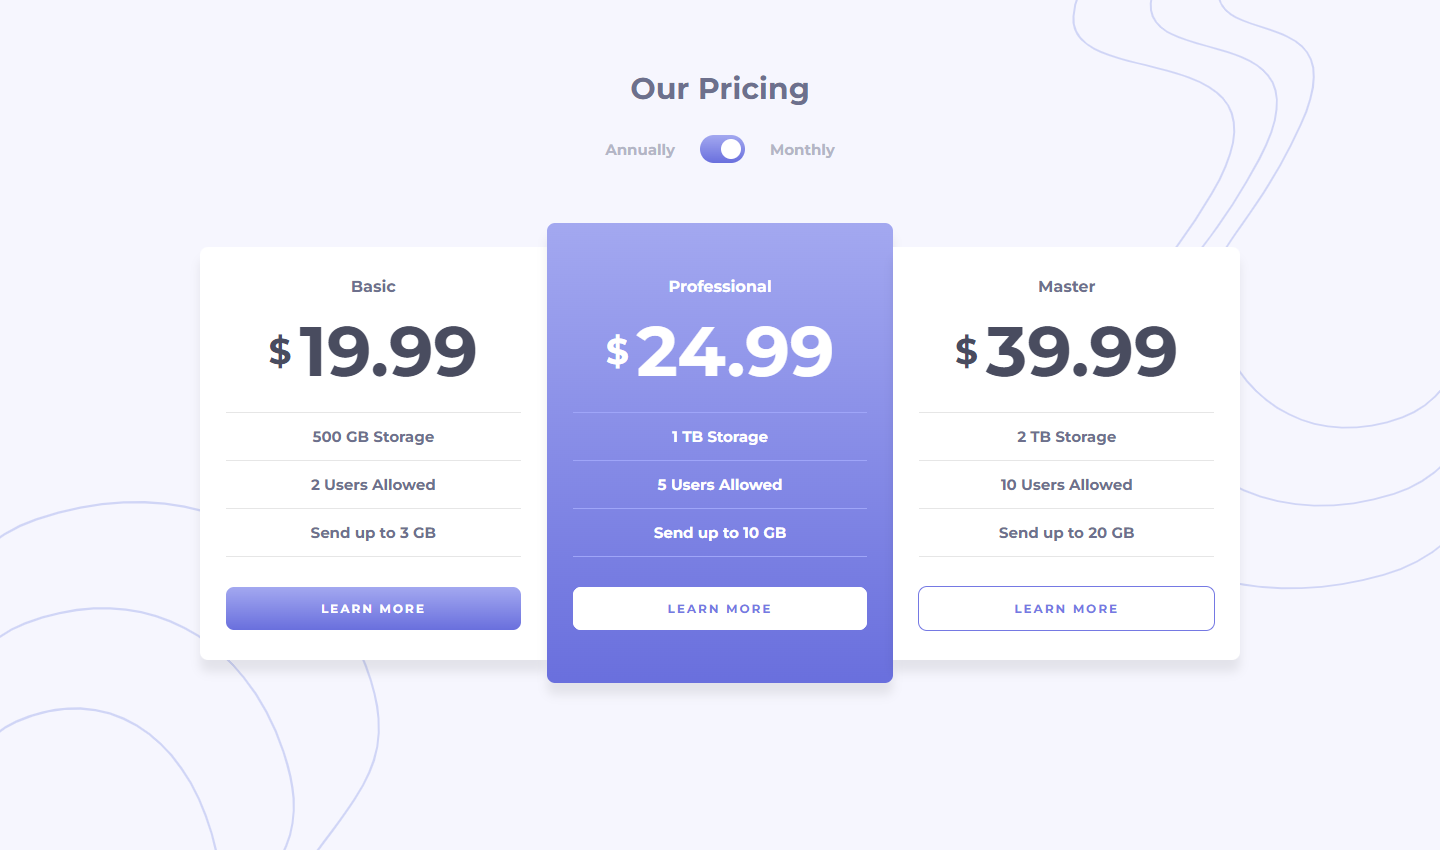
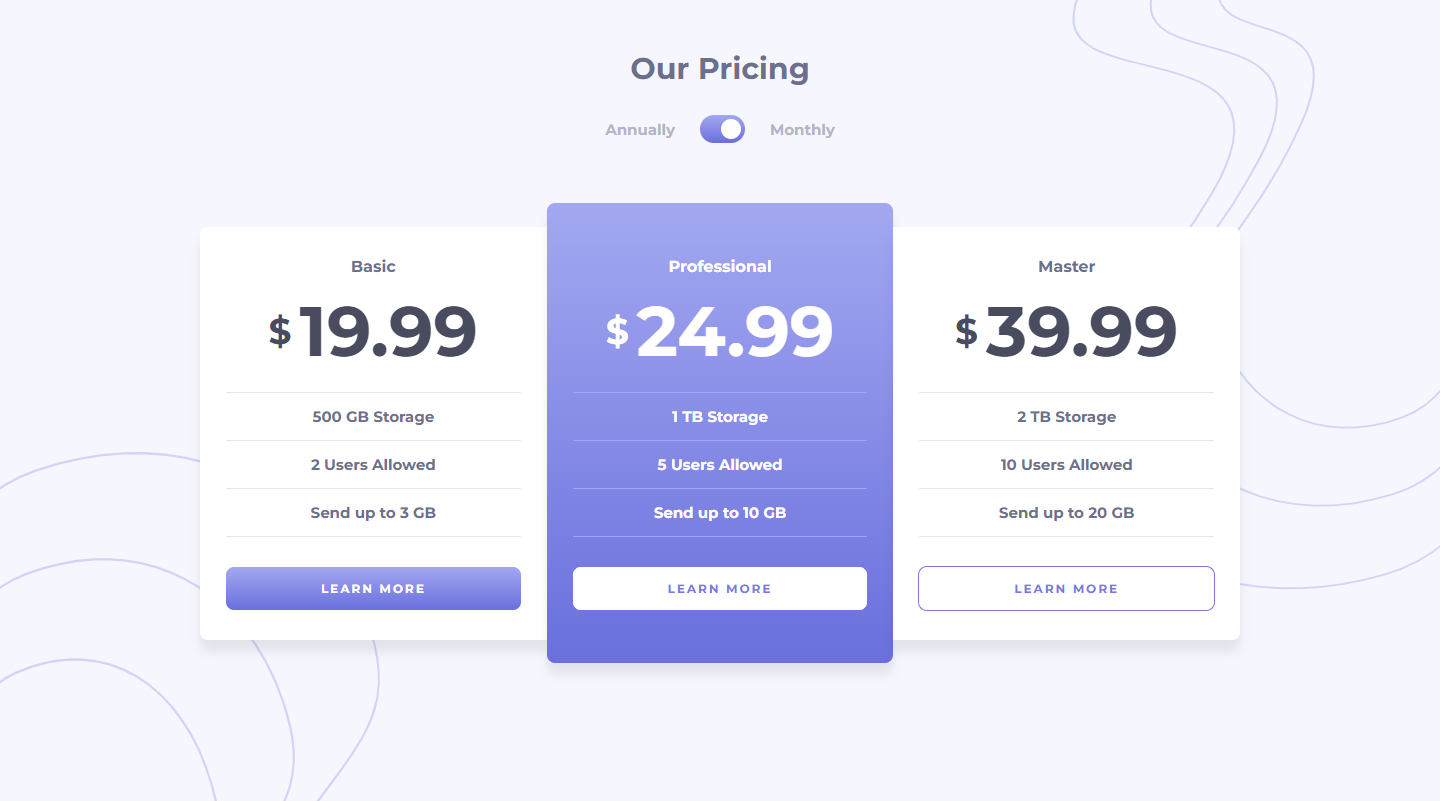
Refactored style, updated queries and screenshots

diff --git a/Junior/Pricing-Component-With-Toggle/style.css b/Junior/Pricing-Component-With-Toggle/style.css
@@ -65,22 +65,98 @@ main {
   display: flex;
   flex-direction: column;
   align-items: center;
+  gap: 6rem;
   margin: 5rem 2.5rem;
 }
 
-.pricing {
-  margin-bottom: 6rem;
+/* ~SHARED ATTRIBUTES~ */
+
+.plan__button,
+.card__button,
+.card__button > * {
+  position: relative;
 }
+
+.plan__button::after,
+.plan__button::before,
+.card__button::before {
+  position: absolute;
+}
+
+.pricing__plan,
+.cards,
+.card__price--annual,
+.card__price--monthly {
+  display: flex;
+}
+
+.pricing h1,
+.card {
+  color: var(--grayishblue);
+}
+
+.card--pro,
+.card--pro h2,
+.card--pro > .card__price,
+.card--pro > .card__button:hover,
+.card__button {
+  color: #fff;
+}
+
+.plan__button,
+.card--pro,
+.card__button::before {
+  background: var(--gradient);
+}
+
+.plan__button::before,
+.card {
+  background-color: #fff;
+}
+
+.card--pro > .card__button::before,
+.card--pro > .card__button {
+  background: #fff;
+}
+
+.plan__button::after,
+.card__price--monthly,
+.monthly .card__price--annual,
+.card__button:hover::before {
+  opacity: 0;
+}
+
+.pricing__plan:hover .plan__button::after,
+.monthly .card__price--monthly {
+  opacity: 1;
+}
+
+.plan__button::after,
+.plan__button::before,
+.card__button,
+.card__button::before {
+  transition: all 0.3s;
+}
+
+.card__price--annual,
+.card__price--monthly {
+  transition: all 0.3s ease-in-out;
+}
+
+.card,
+.card__button {
+  overflow: hidden;
+}
+
+/* ~HEADER~ */
 
 .pricing h1 {
   text-align: center;
   margin-bottom: 2.8rem;
   font-size: 3rem;
-  color: var(--grayishblue);
 }
 
 .pricing__plan {
-  display: flex;
   align-items: center;
   gap: 2.5rem;
 }
@@ -91,50 +167,39 @@ main {
 }
 
 .plan__button {
-  position: relative;
   width: 4.5rem;
   height: 2.8rem;
   border-radius: 50px;
-  background: var(--gradient);
   pointer-events: none;
 }
 
 .plan__button::after {
   content: "";
-  position: absolute;
   top: 0;
   left: 0;
   width: 100%;
   height: 100%;
   border-radius: 50px;
   background: linear-gradient(hsl(237, 45%, 80%), hsl(237, 45%, 65%));
-  opacity: 0;
-  transition: all 0.3s;
-}
-
-.pricing__plan:hover .plan__button::after {
-  opacity: 1;
 }
 
 .plan__button::before {
   content: "";
-  position: absolute;
   z-index: 2;
   top: 0.4rem;
   left: 0.4rem;
   width: 2rem;
   height: 2rem;
   border-radius: 50%;
-  background-color: #fff;
-  transition: all 0.3s;
 }
 
 .plan__input:checked ~ .plan__button::before {
   left: 2.1rem;
 }
 
+/* ~CARDS~ */
+
 .cards {
-  display: flex;
   flex-direction: column;
   width: 100%;
   min-width: 31.67rem;
@@ -144,17 +209,9 @@ main {
 
 .card {
   text-align: center;
-  overflow: hidden;
   padding: 3rem 2.6rem;
   border-radius: 8px;
   box-shadow: 0px 12px 10px rgba(0, 0, 0, 0.08);
-  background-color: white;
-  color: var(--grayishblue);
-}
-
-.card--pro {
-  background: var(--gradient);
-  color: #fff;
 }
 
 .card h2 {
@@ -164,11 +221,6 @@ main {
 
 .card--pro h2 {
   font-size: 1.6rem;
-  color: #fff;
-}
-
-.card--pro > .card__price {
-  color: #fff;
 }
 
 .card__price {
@@ -189,30 +241,21 @@ main {
 
 .card__price--annual,
 .card__price--monthly {
-  display: flex;
   align-items: center;
   justify-content: center;
   gap: 0.2rem;
 }
 
-.card__price--annual {
-  transition: all 0.3s ease-in-out;
-}
-
 .card__price--monthly {
   transform: translate(-100%, -100%);
-  transition: all 0.3s ease-in-out;
-  opacity: 0;
 }
 
 .monthly .card__price--monthly {
   transform: translate(0%, -100%);
-  opacity: 1;
 }
 
 .monthly .card__price--annual {
   transform: translate(100%, 0%);
-  opacity: 0;
 }
 
 .card__features {
@@ -229,7 +272,6 @@ main {
 }
 
 .card__button {
-  position: relative;
   width: 100%;
   padding: 1.4rem;
   border-radius: 8px;
@@ -237,32 +279,14 @@ main {
   font-size: 1.2rem;
   letter-spacing: 0.2rem;
   box-shadow: 0 0 0 1px transparent;
-  color: white;
-  transition: all 0.3s;
-  overflow: hidden;
-}
-
-.card__button > * {
-  position: relative;
 }
 
 .card__button::before {
   content: "";
-  position: absolute;
   top: 0;
   right: 0;
   height: 100%;
   width: 100%;
-  background: var(--gradient);
-  transition: all 0.3s;
-}
-
-.card--pro > .card__button::before {
-  background: #fff;
-}
-
-.card__button:hover::before {
-  opacity: 0;
 }
 
 .card__button:hover {
@@ -272,12 +296,10 @@ main {
 
 .card--pro > .card__button {
   color: #7579e3;
-  background: #fff;
   box-shadow: 0 0 0 1px transparent;
 }
 
 .card--pro > .card__button:hover {
-  color: #fff;
   background: transparent;
   box-shadow: 0 0 0 1px #fff;
 }

diff --git a/Junior/Pricing-Component-With-Toggle/queries.css b/Junior/Pricing-Component-With-Toggle/queries.css
@@ -43,7 +43,7 @@
   }
 
   .card--pro {
-    padding: 5.4rem 2.6rem;
+    padding: 5.35rem 2.6rem;
     height: 46rem;
   }
 
